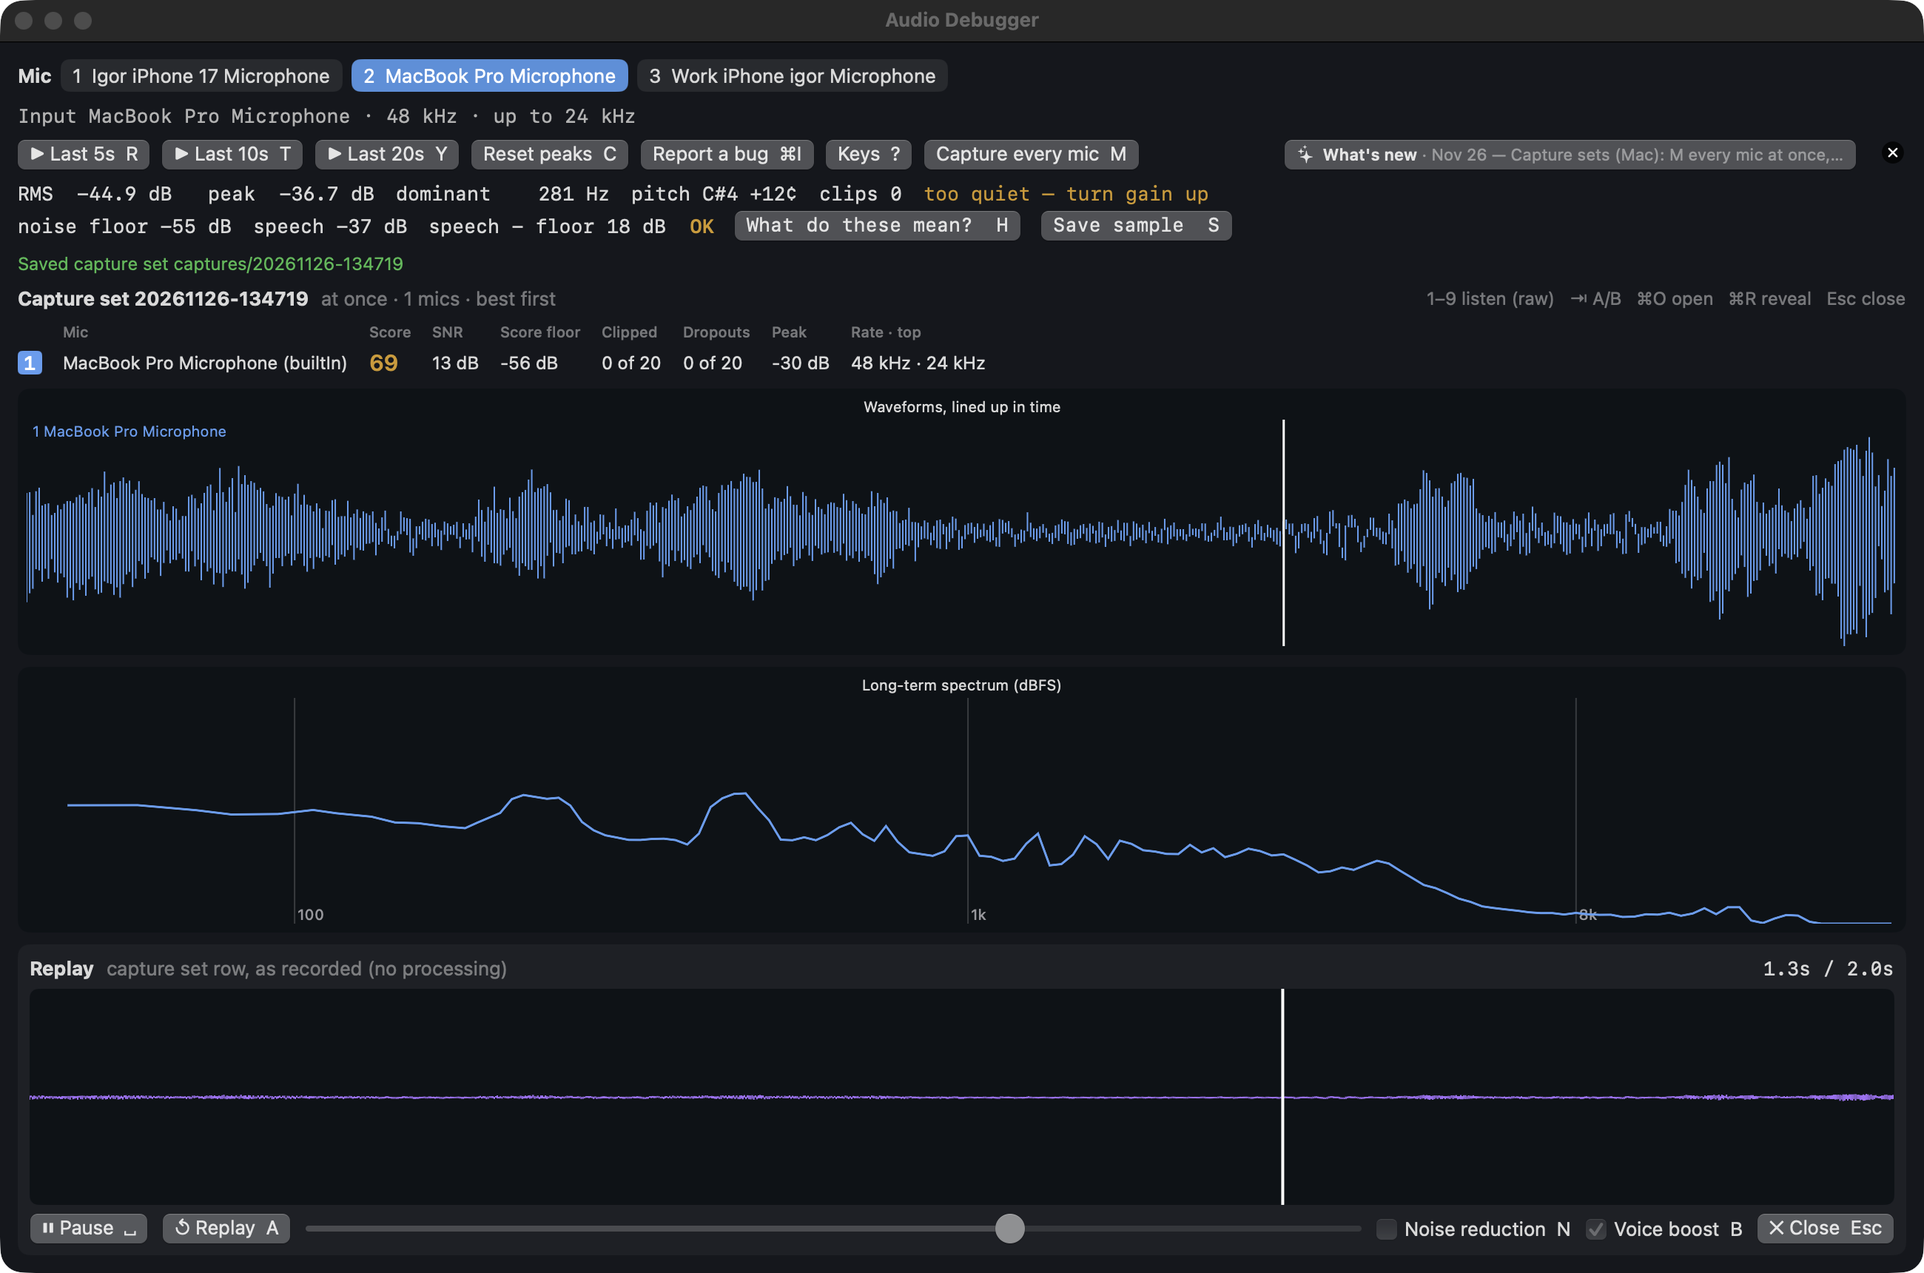
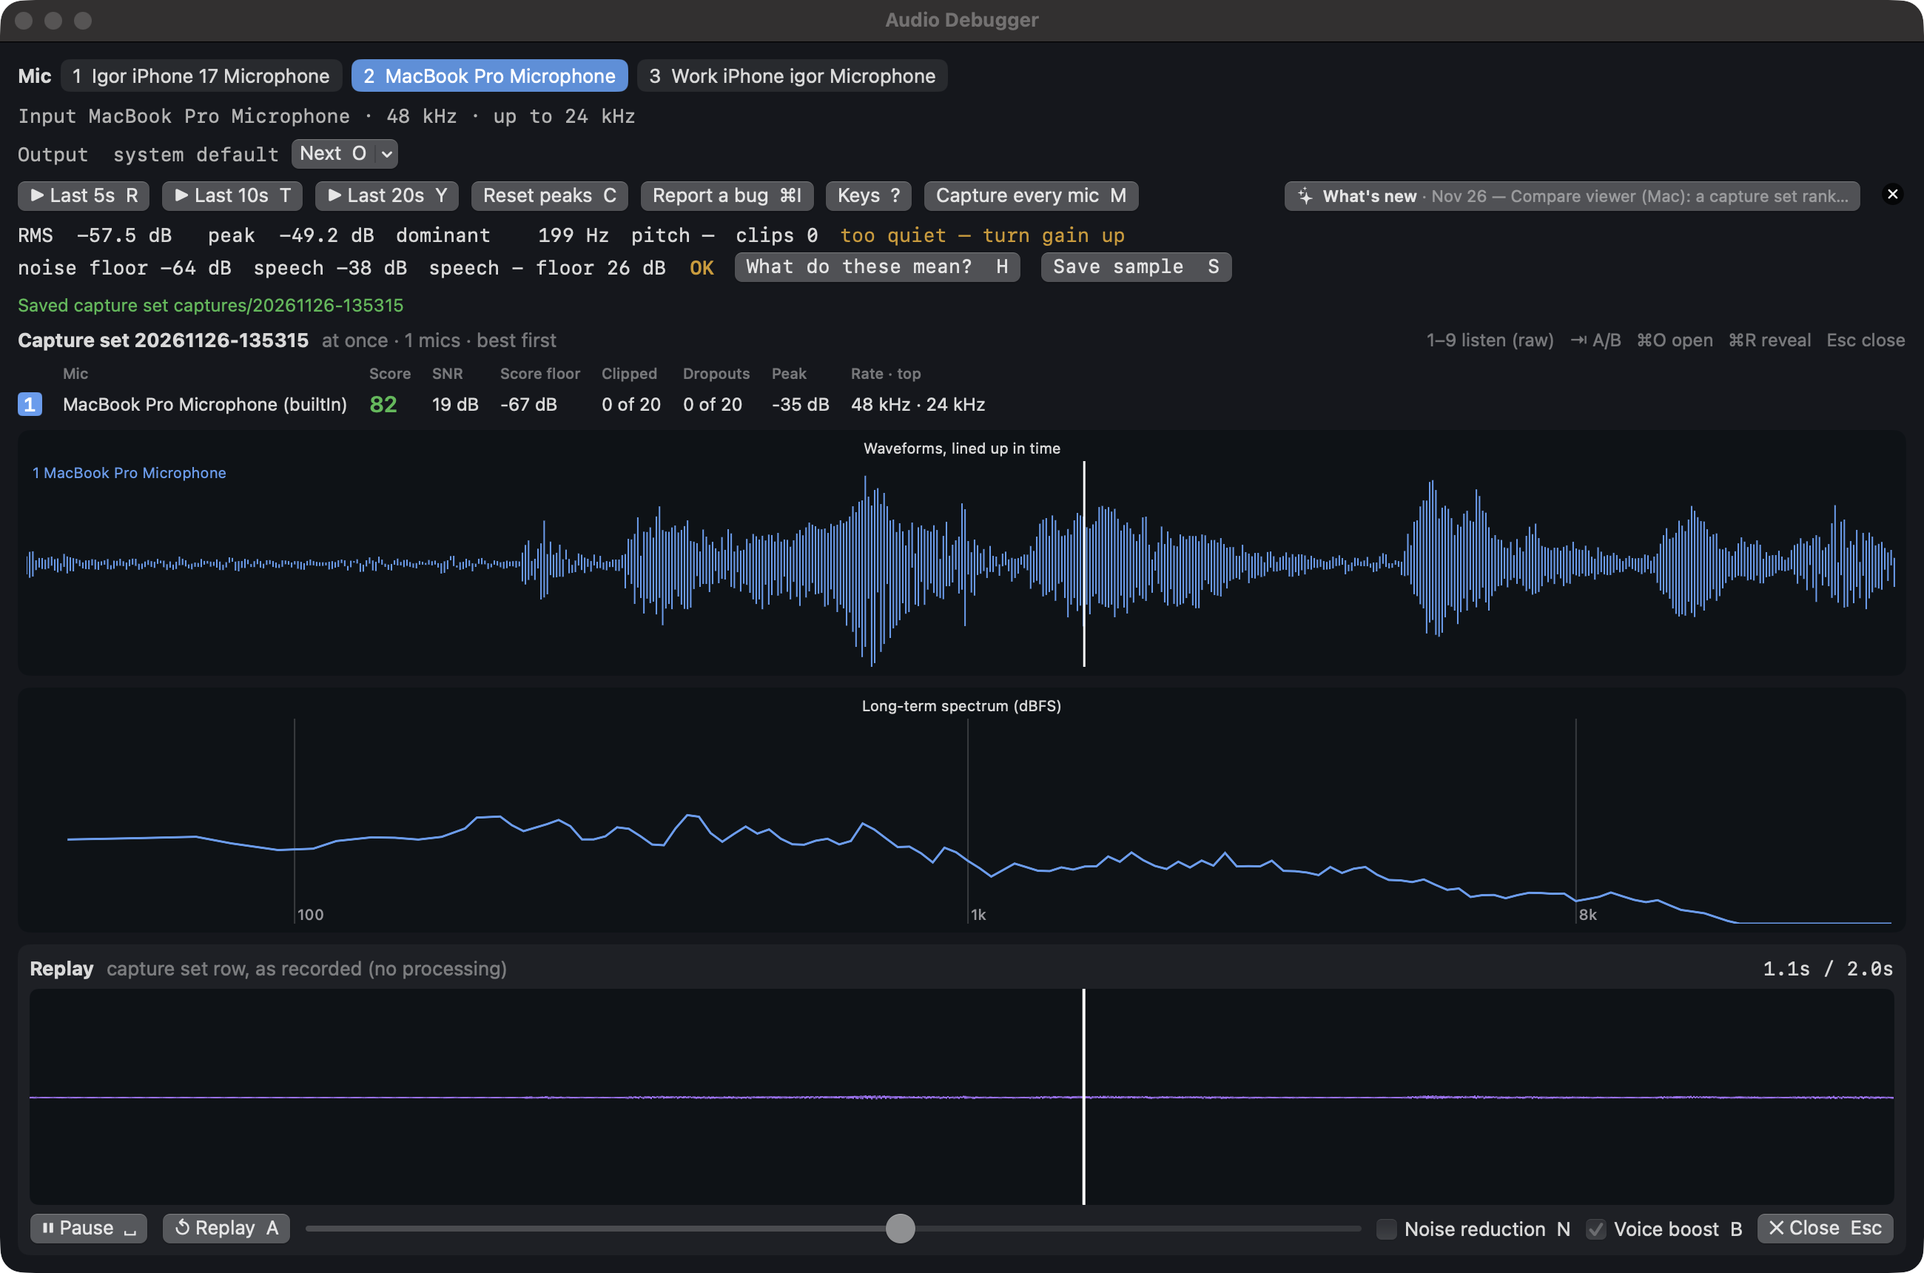
Output (Mac): replay plays on an output chosen apart from the mic, O steps through them (story 020, ad-0er)
AudioCore's OutputChoice keeps the remembered output (nil: system default),
uses it while plugged in, falls back to the default when not, and steps
default -> each output -> default; host-tested. The Mac lists Core Audio
outputs and points the replay engine's output unit at the chosen device
before connecting; changing it rebuilds an open engine on the same
transport. An output line under the input line names it (amber when the
choice is unplugged), with a menu to pick directly. The selftest plays a
muted replay on the built-in speakers and restores the remembered choice.

diff --git a/Sources/AudioDebugger/AppModel.swift b/Sources/AudioDebugger/AppModel.swift
@@ -25,6 +25,7 @@ private enum Key {
     static let mic = "micUID"
     static let noiseReduction = "noiseReduction"
     static let voiceBoost = "voiceBoost"
+    static let output = "outputUID"
 }
 
 @MainActor @Observable
@@ -37,6 +38,10 @@ final class AppModel {
     private(set) var input: InputFormat?
     /// The mic and rate `input` was last opened at, so a route change can refresh its name and call mode.
     private var opened: (mic: Mic, rate: Double)?
+    /// Story 020 (Mac): the replay's output, chosen apart from the mic and remembered; nil wanted is the system
+    /// default.
+    private(set) var output = OutputChoice(
+        wanted: UserDefaults.standard.string(forKey: Key.output), outputs: [])
 
     // Live readings, refreshed 30 times a second.
     private(set) var waveform: [Float] = []
@@ -129,8 +134,12 @@ final class AppModel {
     func start() {
         guard timer == nil else { return }
         capture.onFailure = { [weak self] in self?.captureFailed() }
-        Mics.onChange { [weak self] in self?.micsChanged() }
+        Mics.onChange { [weak self] in
+            self?.micsChanged()
+            self?.outputsChanged()
+        }
         Mics.onRouteChange { [weak self] in self?.refreshInput() }
+        outputsChanged()
         AVCaptureDevice.requestAccess(for: .audio) { granted in
             Task { @MainActor [weak self] in
                 Log.mic.info("microphone access: \(granted ? "granted" : "denied", privacy: .public)")
@@ -168,6 +177,37 @@ final class AppModel {
             micControl.devicesChanged(
                 list, authorized: AVCaptureDevice.authorizationStatus(for: .audio) == .authorized,
                 remembered: rememberedMic, now: Date()))
+    }
+
+    // MARK: Output (story 020)
+
+    /// The device list changed (or first load): the remembered output is used if it is plugged in, else the default.
+    private func outputsChanged() {
+        let before = output.active
+        output = OutputChoice(wanted: output.wanted, outputs: Mics.outputs())
+        if output.active != before || output.missing { applyOutput() }
+    }
+
+    /// O: the system default, then each output in turn. Remembered.
+    func nextOutput() {
+        selectOutput(OutputChoice(wanted: output.wanted, outputs: Mics.outputs()).next().wanted)
+    }
+
+    /// Play replay on `uid` (nil: the system default), remembered across launches.
+    func selectOutput(_ uid: String?) {
+        output = OutputChoice(wanted: uid, outputs: Mics.outputs())
+        UserDefaults.standard.set(uid, forKey: Key.output)
+        SessionLog.shared.event("output", ["name": output.active?.name ?? "system default"])
+        applyOutput()
+    }
+
+    private func applyOutput() {
+        #if os(macOS)
+        player.outputDevice = output.active.flatMap { Mics.deviceID(uid: $0.uid) }
+        #endif
+        let missing = output.missing ? " (chosen output not plugged in)" : ""
+        Log.replay.info(
+            "output: \(self.output.active?.name ?? "system default", privacy: .public)\(missing, privacy: .public)")
     }
 
     /// The user picked a mic: remember it, so it comes back by itself after being unplugged.

diff --git a/Sources/AudioDebugger/Mac/Mics+Mac.swift b/Sources/AudioDebugger/Mac/Mics+Mac.swift
@@ -6,19 +6,41 @@ import Foundation
 enum Mics {
     /// Every device with at least one input channel.
     static func all() -> [Mic] {
+        devices().compactMap { id in
+            guard channels(id, kAudioDevicePropertyScopeInput) > 0, let (uid, name) = named(id) else { return nil }
+            return Mic(uid: uid, name: name, kind: kind(transportType(id)))
+        }
+    }
+
+    /// Story 020: every device with at least one output channel, for replay.
+    static func outputs() -> [Output] {
+        devices().compactMap { id in
+            guard channels(id, kAudioDevicePropertyScopeOutput) > 0, let (uid, name) = named(id) else { return nil }
+            return Output(uid: uid, name: name)
+        }
+    }
+
+    /// The Core Audio device with `uid`, for pointing the replay engine at it.
+    static func deviceID(uid: String) -> AudioDeviceID? {
+        devices().first { string($0, kAudioDevicePropertyDeviceUID) == uid }
+    }
+
+    private static func devices() -> [AudioDeviceID] {
         var addr = address(kAudioHardwarePropertyDevices)
         var size: UInt32 = 0
         let system = AudioObjectID(kAudioObjectSystemObject)
         guard AudioObjectGetPropertyDataSize(system, &addr, 0, nil, &size) == noErr else { return [] }
         var ids = [AudioDeviceID](repeating: 0, count: Int(size) / MemoryLayout<AudioDeviceID>.size)
         guard AudioObjectGetPropertyData(system, &addr, 0, nil, &size, &ids) == noErr else { return [] }
-        return ids.compactMap { id in
-            guard inputChannels(id) > 0, let name = string(id, kAudioObjectPropertyName),
-                let uid = string(id, kAudioDevicePropertyDeviceUID),
-                !name.hasPrefix("CADefaultDeviceAggregate")  // the system's private aggregates, not a mic
-            else { return nil }
-            return Mic(uid: uid, name: name, kind: kind(transportType(id)))
-        }
+        return ids
+    }
+
+    /// The UID and name, leaving out the system's private aggregates (not a real mic or speaker).
+    private static func named(_ id: AudioDeviceID) -> (String, String)? {
+        guard let name = string(id, kAudioObjectPropertyName), let uid = string(id, kAudioDevicePropertyDeviceUID),
+            !name.hasPrefix("CADefaultDeviceAggregate")
+        else { return nil }
+        return (uid, name)
     }
 
     /// Calls `handler` on the main queue whenever a device is plugged in or removed.
@@ -55,8 +77,8 @@ enum Mics {
         AudioObjectPropertyAddress(mSelector: selector, mScope: scope, mElement: kAudioObjectPropertyElementMain)
     }
 
-    private static func inputChannels(_ id: AudioDeviceID) -> Int {
-        var addr = address(kAudioDevicePropertyStreamConfiguration, scope: kAudioDevicePropertyScopeInput)
+    private static func channels(_ id: AudioDeviceID, _ scope: AudioObjectPropertyScope) -> Int {
+        var addr = address(kAudioDevicePropertyStreamConfiguration, scope: scope)
         var size: UInt32 = 0
         guard AudioObjectGetPropertyDataSize(id, &addr, 0, nil, &size) == noErr, size > 0 else { return 0 }
         let raw = UnsafeMutableRawPointer.allocate(

diff --git a/Sources/AudioDebugger/Launch.swift b/Sources/AudioDebugger/Launch.swift
@@ -102,6 +102,7 @@ enum SelfTest {
             )
             #if os(macOS)
             await captureSets(model)
+            await outputs(model)
             #endif
             Log.selftest.info("selftest done")
             quitApp()
@@ -109,6 +110,27 @@ enum SelfTest {
     }
 
     #if os(macOS)
+    /// Story 020: list the outputs, play a replay (muted) on the built-in speakers, step with O, then put the
+    /// remembered choice back as it was: the selftest shares the app's settings.
+    private static func outputs(_ model: AppModel) async {
+        let remembered = model.output.wanted
+        let names = model.output.outputs.map(\.name)
+        Log.selftest.info("outputs: \(names.joined(separator: ", "), privacy: .public)")
+        if let builtIn = model.output.outputs.first(where: { $0.name.contains("MacBook") }) {
+            model.selectOutput(builtIn.uid)
+            _ = model.press(.character("r"), shift: false)
+            try? await Task.sleep(for: .seconds(0.5))
+            Log.selftest.info(
+                "output chosen: \(model.output.active?.name ?? "system default", privacy: .public); replay playing \(model.playing, privacy: .public)"
+            )
+            model.closeReplay()
+        }
+        _ = model.press(.character("o"), shift: false)
+        Log.selftest.info("O: \(model.output.active?.name ?? "system default", privacy: .public)")
+        model.selectOutput(remembered)
+        Log.selftest.info("output restored: \(model.output.wanted ?? "system default", privacy: .public)")
+    }
+
     /// Stories 017/018: M, then ⇧M, through the keys: a 2 s capture set at once, then in turn, of the `--mic` mics
     /// only, so a selftest never opens AirPods or wakes an iPhone (without `--mic` the app refuses). Checks each
     /// manifest and its files.

diff --git a/Sources/AudioDebugger/Player.swift b/Sources/AudioDebugger/Player.swift
@@ -21,6 +21,20 @@ final class Player {
     var muted = false {
         didSet { engine?.mainMixerNode.outputVolume = muted ? 0 : 1 }
     }
+    #if os(macOS)
+    /// Story 020: the Core Audio device replay plays on; nil is the system default. Changing it rebuilds an open
+    /// engine on the same transport, so the replay carries on where it was, on the new output.
+    var outputDevice: AudioDeviceID? {
+        didSet {
+            guard outputDevice != oldValue, engine != nil, engineRate > 0 else { return }
+            do {
+                try makeEngine(sampleRate: engineRate)
+            } catch {
+                Log.replay.error("output switch failed: \(String(describing: error), privacy: .public)")
+            }
+        }
+    }
+    #endif
 
     var transport: Transport { state.withLock { $0.transport } }
 
@@ -89,6 +103,17 @@ final class Player {
     private func makeEngine(sampleRate: Double) throws {
         stopEngine()
         let engine = AVAudioEngine()
+        #if os(macOS)
+        // Before anything is connected, so the output's format is the chosen device's.
+        if var device = outputDevice, let unit = engine.outputNode.audioUnit {
+            let status = AudioUnitSetProperty(
+                unit, kAudioOutputUnitProperty_CurrentDevice, kAudioUnitScope_Global, 0, &device,
+                UInt32(MemoryLayout<AudioDeviceID>.size))
+            if status != noErr {
+                Log.replay.error("could not play on device \(device): status \(status); using the system default")
+            }
+        }
+        #endif
         guard let format = AVAudioFormat(standardFormatWithSampleRate: sampleRate, channels: 1) else {
             throw CaptureError.noFormat
         }

diff --git a/Sources/AudioCore/Output.swift b/Sources/AudioCore/Output.swift
@@ -1,0 +1,40 @@
+/// Story 020: a device replay can play on (the Mac's Core Audio outputs: `Mics.outputs()` in Mac/Mics+Mac.swift).
+public struct Output: Identifiable, Hashable, Sendable {
+    public let uid: String
+    public let name: String
+
+    public init(uid: String, name: String) {
+        self.uid = uid
+        self.name = name
+    }
+
+    public var id: String { uid }
+}
+
+/// The replay's output, chosen apart from the mic: `wanted` is the remembered choice (nil: the system default).
+/// A wanted output that is not plugged in is kept, so it is used again when it returns; meanwhile replay plays on the
+/// system default and `missing` says so.
+public struct OutputChoice: Equatable, Sendable {
+    public let wanted: String?
+    public let outputs: [Output]
+
+    public init(wanted: String?, outputs: [Output]) {
+        self.wanted = wanted
+        self.outputs = outputs
+    }
+
+    /// The output to play on now; nil is the system default.
+    public var active: Output? { wanted.flatMap { uid in outputs.first { $0.uid == uid } } }
+
+    /// Chosen, but not plugged in.
+    public var missing: Bool { wanted != nil && active == nil }
+
+    /// O: the system default, then each output in turn, then the default again.
+    public func next() -> OutputChoice {
+        guard let current = active, let i = outputs.firstIndex(of: current) else {
+            return OutputChoice(wanted: outputs.first?.uid, outputs: outputs)
+        }
+        let after = outputs.index(after: i)
+        return OutputChoice(wanted: after < outputs.endIndex ? outputs[after].uid : nil, outputs: outputs)
+    }
+}

diff --git a/Tests/AudioCoreTests/OutputTests.swift b/Tests/AudioCoreTests/OutputTests.swift
@@ -1,0 +1,46 @@
+import Testing
+
+@testable import AudioCore
+
+// Story 020: the replay's output, chosen apart from the mic.
+
+private let speakers = Output(uid: "spk", name: "MacBook Pro Speakers")
+private let phones = Output(uid: "hp", name: "External Headphones")
+private let usb = Output(uid: "usb", name: "USB DAC")
+
+@Test func noChoiceMeansTheSystemDefault() {
+    let c = OutputChoice(wanted: nil, outputs: [speakers, phones])
+    #expect(c.active == nil)
+    #expect(c.missing == false)
+}
+
+@Test func aChosenOutputIsUsedWhilePresent() {
+    let c = OutputChoice(wanted: "hp", outputs: [speakers, phones])
+    #expect(c.active == phones)
+    #expect(c.missing == false)
+}
+
+@Test func anUnpluggedChoiceFallsBackAndIsKept() {
+    let c = OutputChoice(wanted: "hp", outputs: [speakers])
+    #expect(c.active == nil)
+    #expect(c.missing)
+    #expect(c.wanted == "hp")
+    // Plugged back in: used again.
+    #expect(OutputChoice(wanted: c.wanted, outputs: [speakers, phones]).active == phones)
+}
+
+@Test func nextStepsThroughDefaultThenEachOutput() {
+    let outputs = [speakers, phones, usb]
+    var c = OutputChoice(wanted: nil, outputs: outputs)
+    var seen: [String?] = []
+    for _ in 0..<4 {
+        c = c.next()
+        seen.append(c.wanted)
+    }
+    #expect(seen == ["spk", "hp", "usb", nil])
+}
+
+@Test func nextFromAMissingChoiceStartsAtTheFirstOutput() {
+    let c = OutputChoice(wanted: "gone", outputs: [speakers, phones])
+    #expect(c.next().wanted == "spk")
+}

diff --git a/Sources/AudioDebugger/Mac/OutputLine.swift b/Sources/AudioDebugger/Mac/OutputLine.swift
@@ -1,0 +1,30 @@
+import AudioCore
+import SwiftUI
+
+/// Story 020: under the input line, where replay plays, chosen apart from the mic. O steps through the outputs; the
+/// menu picks one directly. Amber while the chosen output is not plugged in (replay uses the system default meanwhile).
+struct OutputLine: View {
+    @Environment(AppModel.self) private var model
+
+    var body: some View {
+        let choice = model.output
+        HStack(spacing: 8) {
+            Text("Output  \(choice.active?.name ?? "system default")")
+                .font(.system(size: 13, design: .monospaced))
+                .foregroundStyle(choice.missing ? amber : Color(white: 0.7))
+            if choice.missing {
+                Text("(chosen output not plugged in)").foregroundStyle(amber).font(.callout)
+            }
+            Menu("Next  O") {
+                Button("System default") { model.selectOutput(nil) }
+                ForEach(choice.outputs) { o in
+                    Button(o.name) { model.selectOutput(o.uid) }
+                }
+            } primaryAction: {
+                model.nextOutput()
+            }
+            .fixedSize()
+            .help("Replay's speakers or headphones, apart from the mic; O steps to the next")
+        }
+    }
+}

diff --git a/Sources/AudioCore/KeyTable.swift b/Sources/AudioCore/KeyTable.swift
@@ -51,6 +51,7 @@ public enum KeyTable {
         KeyEntry("S", "Save the last 20 s as a WAV with its measurements", [.init("s", "Save Sample")]),
         // Mac only (stories 017/018), so no iPad command.
         KeyEntry("M / ⇧M", "Mac: capture every mic to one set, at once / in turn (Esc stops)"),
+        KeyEntry("O", "Mac: replay on the next output (system default, then each speaker or headphone)"),
         KeyEntry("⇥", "Capture set: back to the row played before, at the same place (A/B)"),
         KeyEntry("⌘O / ⌘R", "Mac: open a capture set / reveal it in Finder"),
         KeyEntry(

diff --git a/iOS/Mics+iOS.swift b/iOS/Mics+iOS.swift
@@ -24,6 +24,10 @@ enum Mics {
         }
     }
 
+    /// Story 020 is Mac first: on iOS the session routes the output (the system default here); speaker, receiver and
+    /// the route picker are ad-0er's follow-up.
+    static func outputs() -> [Output] { [] }
+
     static func all() -> [Mic] {
         (AVAudioSession.sharedInstance().availableInputs ?? []).map { port in
             Mic(uid: port.uid, name: port.portName, kind: kind(port.portType))

diff --git a/Sources/AudioDebugger/Mac/ContentView.swift b/Sources/AudioDebugger/Mac/ContentView.swift
@@ -12,6 +12,7 @@ struct ContentView: View {
         VStack(alignment: .leading, spacing: 8) {
             MicBar()
             InputLine()
+            OutputLine()
             HStack {
                 ForEach([5, 10, 20], id: \.self) { s in
                     Button("▶ Last \(s)s  \(Self.replayKey[s] ?? "")") { model.replay(seconds: s) }

diff --git a/Sources/AudioDebugger/Keys.swift b/Sources/AudioDebugger/Keys.swift
@@ -94,6 +94,7 @@ extension AppModel {
             case "h": openNoiseGuide()
             #if os(macOS)
             case "m": captureSet(shift ? .inTurn : .together)  // stories 017/018
+            case "o": nextOutput()  // story 020
             #endif
             default: return false
             }

diff --git a/docs/stories/02-hearing-it-back.md b/docs/stories/02-hearing-it-back.md
@@ -113,3 +113,34 @@ later, or hand the clip to another tool.
 **Notes**: The folder is `SessionLog.root` (`~/Library/Application Support/AudioDebugger/` on the Mac, the app's
 Documents on iOS; `selftest/` inside it for scripted runs). On iOS the folder is not yet visible in the Files app.
 Nothing is uploaded.
+
+## 020 — Choose the speakers apart from the mic
+
+**Summary**: Replay plays on an output chosen apart from the mic: O steps through the outputs (the system default
+first, then every speaker and headphone), the choice is remembered, and a line under the input line names it. An
+unplugged choice falls back to the system default and comes back when it is plugged in again.
+**Status**: Planned (ad-0er)
+**Why**: "audio debugger also lets select speakers independent of mic" (Igor, 2026-11-26): test the USB mic while
+listening on the Mac's speakers, or the built-in mic on headphones, without changing the Mac's own output.
+
+**Use Case**: As Igor, I want replay on the headphones I choose whatever mic is open, so that I can listen closely
+without changing the Mac's sound settings.
+
+**Acceptance Criteria**
+
+- Scenario: Step to another output
+  - Given the system output is the Mac's speakers and headphones are plugged in
+  - When I press O until the output line names the headphones, then press R
+  - Then the last 5 s play in the headphones, and the Mac's own output setting is unchanged
+- Scenario: Remembered
+  - Given I chose the headphones
+  - When I quit and reopen the app
+  - Then replay still plays in the headphones
+- Scenario: Unplugged
+  - Given I chose the headphones and they are unplugged
+  - When I press R
+  - Then the replay plays on the system default, the output line says the chosen output is missing, and it is used
+    again once plugged back in
+
+**Notes**: Mac first. The iPhone and iPad (speaker or receiver, the system route picker, and a Bluetooth headset's
+input tying its output to the same headset) are ad-0er's follow-up.
